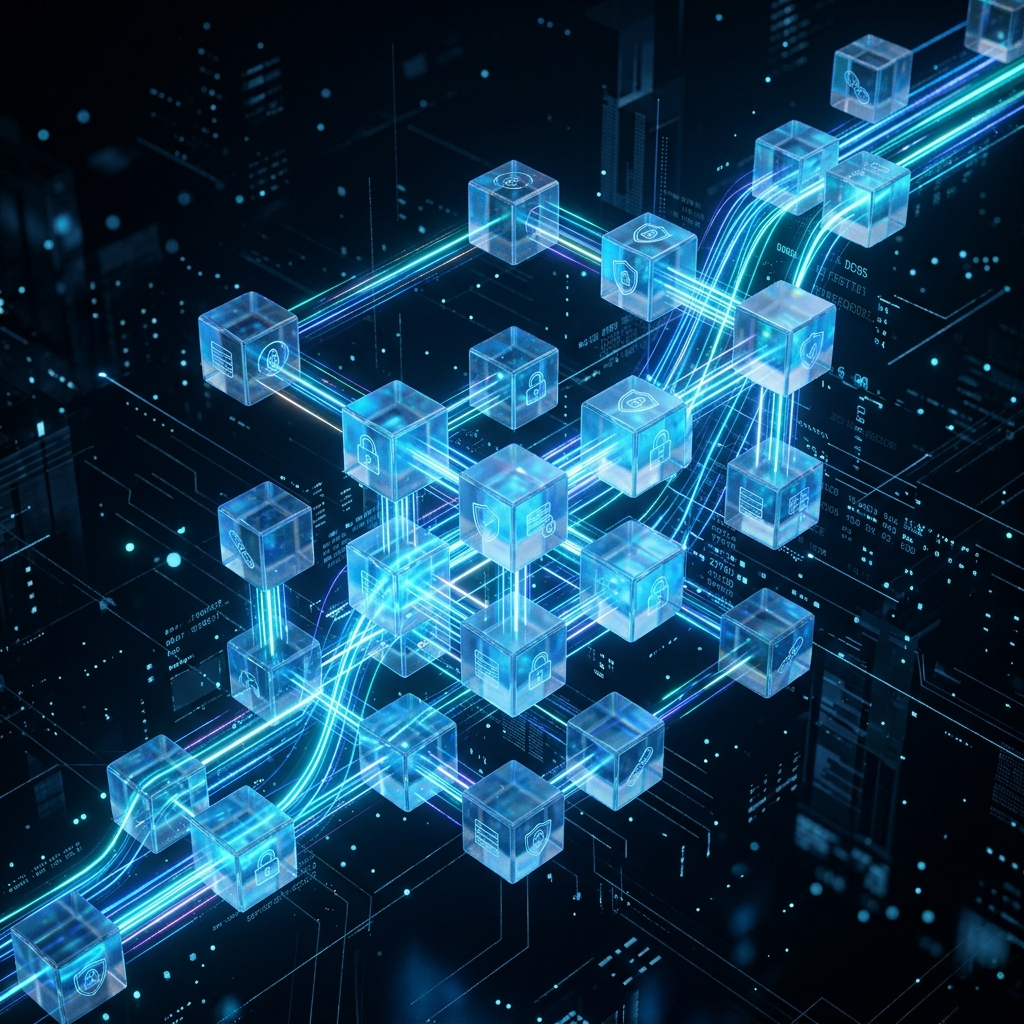
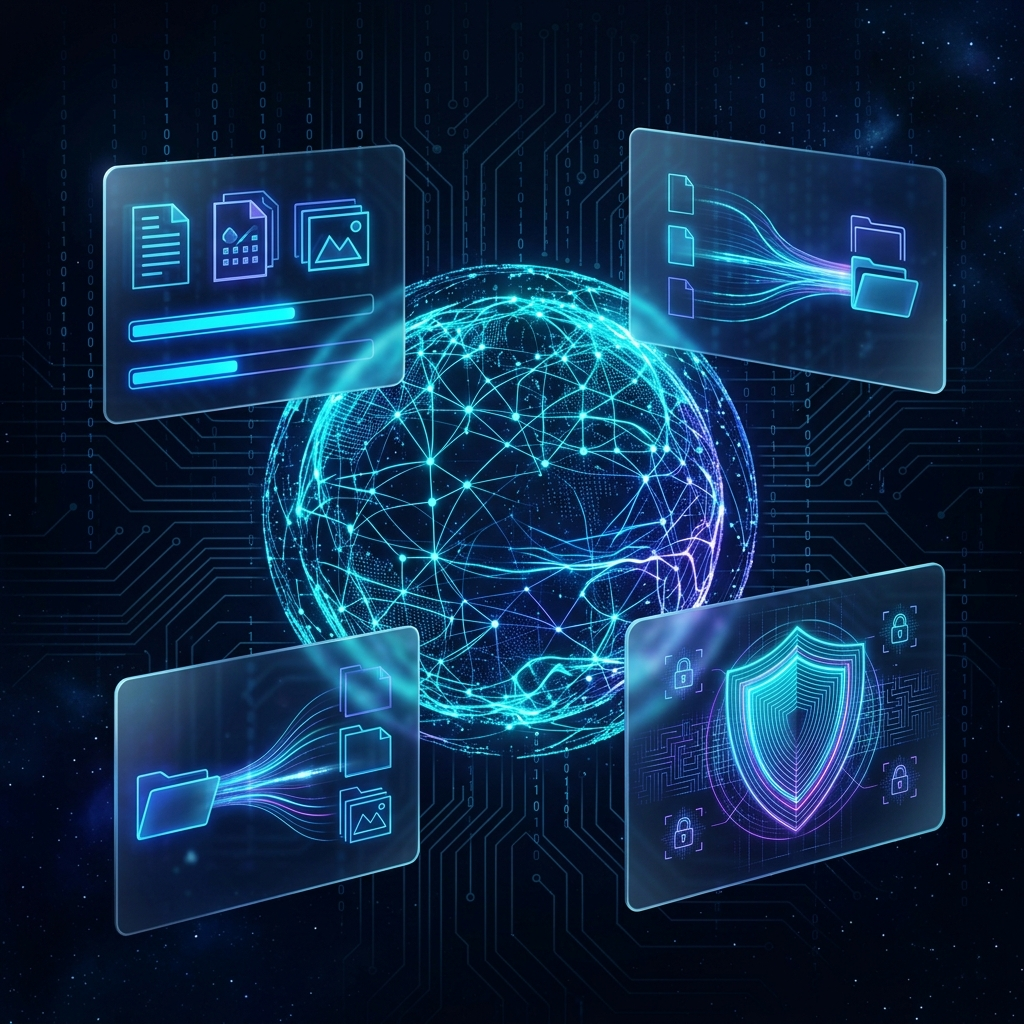
Kodi i verifikimi per ndryshim fjalekalimi

diff --git a/server.js b/server.js
@@ -61,6 +61,19 @@ db.serialize(() => {
             FOREIGN KEY (user_id) REFERENCES users (id)
         )
     `);
+    db.run(`
+        CREATE TABLE IF NOT EXISTS password_reset_codes (
+            id INTEGER PRIMARY KEY AUTOINCREMENT,
+            user_id INTEGER NOT NULL,
+            email TEXT NOT NULL,
+            code_hash TEXT NOT NULL,
+            reset_token TEXT NOT NULL UNIQUE,
+            expires_at DATETIME NOT NULL,
+            attempts INTEGER DEFAULT 0,
+            created_at DATETIME DEFAULT CURRENT_TIMESTAMP,
+            FOREIGN KEY (user_id) REFERENCES users (id)
+        )
+    `);
 });
 
 
@@ -144,6 +157,28 @@ function sendLoginVerificationEmail(email, code) {
     });
 }
 
+function sendPasswordResetEmail(email, code) {
+    if (!mailTransport) {
+        throw new Error('Nodemailer is not configured.');
+    }
+
+    return mailTransport.sendMail({
+        from: SMTP_FROM,
+        to: email,
+        subject: 'Kodi i verifikimit per ndryshimin e fjalekalimit ne Vantalyra',
+        text: `Kodi juaj i verifikimit per ndryshimin e fjalekalimit eshte: ${code}. Ky kod skadon per ${VERIFICATION_CODE_TTL_MINUTES} minuta.`,
+        html: `
+            <div style="font-family: Arial, sans-serif; color: #111827;">
+                <h2>Kodi i ndryshimit te fjalekalimit</h2>
+                <p>Per te ndryshuar fjalekalimin ne llogarine tuaj ne Vantalyra, perdorni kodin me poshte:</p>
+                <p style="font-size: 32px; font-weight: bold; letter-spacing: 6px;">${code}</p>
+                <p>Ky kod skadon per ${VERIFICATION_CODE_TTL_MINUTES} minuta.</p>
+                <p>Nese nuk e keni kerkuar ju kete ndryshim, injorojeni kete email.</p>
+            </div>
+        `
+    });
+}
+
 
 app.post('/api/register', async (req, res) => {
     const { full_name, email, password } = req.body;
@@ -173,11 +208,69 @@ app.post('/api/register', async (req, res) => {
 });
 
 
-app.post('/api/reset-password', async (req, res) => {
-    const { email, newPassword } = req.body;
+app.post('/api/request-reset-password', (req, res) => {
+    const { email } = req.body;
 
-    if (!email || !newPassword) {
-        return res.status(400).json({ error: 'Ju lutem mbushni te gjitha fushat.' });
+    if (!email) {
+        return res.status(400).json({ error: 'Ju lutem shkruani email-in.' });
+    }
+
+    db.get('SELECT * FROM users WHERE email = ?', [email], async (err, user) => {
+        if (err) return res.status(500).json({ error: 'Gabim sistemi.' });
+        if (!user) return res.status(404).json({ error: 'Nuk ekziston llogari me kete email.' });
+
+        if (!mailTransport) {
+            return res.status(500).json({
+                error: 'Nodemailer nuk eshte i konfiguruar ende ne server. Vendos EMAIL_SERVICE ose SMTP_HOST bashke me SMTP_USER, SMTP_PASS dhe SMTP_FROM ne .env.'
+            });
+        }
+
+        const code = createVerificationCode();
+        const resetToken = createVerificationToken();
+        const expiresAt = new Date(Date.now() + VERIFICATION_CODE_TTL_MINUTES * 60 * 1000).toISOString();
+
+        try {
+            const codeHash = await bcrypt.hash(code, 10);
+
+            db.serialize(() => {
+                db.run('DELETE FROM password_reset_codes WHERE email = ?', [email]);
+                db.run(
+                    `INSERT INTO password_reset_codes
+                    (user_id, email, code_hash, reset_token, expires_at)
+                    VALUES (?, ?, ?, ?, ?)`,
+                    [user.id, user.email, codeHash, resetToken, expiresAt],
+                    async (insertErr) => {
+                        if (insertErr) {
+                            return res.status(500).json({ error: 'Gabim gjate krijimit te kodit te verifikimit.' });
+                        }
+
+                        try {
+                            await sendPasswordResetEmail(user.email, code);
+                            res.json({
+                                resetToken,
+                                email: user.email,
+                                message: 'Kodi i verifikimit u dergua ne email.'
+                            });
+                        } catch (emailError) {
+                            db.run('DELETE FROM password_reset_codes WHERE reset_token = ?', [resetToken]);
+                            console.error('Email delivery error:', emailError.message);
+                            console.log(`[DEV ONLY] Kodi i verifikimit per ${user.email} eshte: ${code}`);
+                            res.status(500).json({ error: 'Kodi nuk mund te dergohet ne email per momentin.' });
+                        }
+                    }
+                );
+            });
+        } catch (verificationError) {
+            res.status(500).json({ error: 'Gabim sistemi.' });
+        }
+    });
+});
+
+app.post('/api/reset-password', async (req, res) => {
+    const { email, code, resetToken, newPassword } = req.body;
+
+    if (!email || !code || !resetToken || !newPassword) {
+        return res.status(400).json({ error: 'Ju lutem plotesoni te gjitha fushat.' });
     }
 
     if (newPassword.length < 6) {
@@ -185,24 +278,42 @@ app.post('/api/reset-password', async (req, res) => {
     }
 
     try {
-        db.get('SELECT id FROM users WHERE email = ?', [email], async (err, user) => {
-            if (err) return res.status(500).json({ error: 'Gabim sistemi.' });
-            if (!user) return res.status(404).json({ error: 'Nuk ekziston llogari me kete email.' });
+        db.get(
+            `SELECT prc.*, u.id as user_uid
+             FROM password_reset_codes prc
+             JOIN users u ON u.id = prc.user_id
+             WHERE prc.email = ? AND prc.reset_token = ?`,
+            [email, resetToken],
+            async (err, record) => {
+                if (err) return res.status(500).json({ error: 'Gabim sistemi.' });
+                if (!record) return res.status(400).json({ error: 'Seanca e verifikimit nuk u gjet. Provo te kerkosh nje kod te ri.' });
 
-            const hashedPassword = await bcrypt.hash(newPassword, 10);
-
-            db.run(
-                'UPDATE users SET password_hash = ? WHERE email = ?',
-                [hashedPassword, email],
-                function(updateErr) {
-                    if (updateErr) {
-                        return res.status(500).json({ error: 'Gabim gjate ndryshimit te fjalekalimit.' });
-                    }
-
-                    res.json({ message: 'Fjalekalimi u ndryshua me sukses.' });
+                if (new Date(record.expires_at).getTime() < Date.now()) {
+                    db.run('DELETE FROM password_reset_codes WHERE id = ?', [record.id]);
+                    return res.status(400).json({ error: 'Kodi i verifikimit ka skaduar. Kerkoni nje kod te ri.' });
                 }
-            );
-        });
+
+                if (record.attempts >= VERIFICATION_CODE_MAX_ATTEMPTS) {
+                    db.run('DELETE FROM password_reset_codes WHERE id = ?', [record.id]);
+                    return res.status(429).json({ error: 'Keni tejkaluar tentativat e lejuara. Kerkoni nje kod te ri.' });
+                }
+
+                const validCode = await bcrypt.compare(code, record.code_hash);
+
+                if (!validCode) {
+                    db.run('UPDATE password_reset_codes SET attempts = attempts + 1 WHERE id = ?', [record.id]);
+                    return res.status(400).json({ error: 'Kodi i verifikimit eshte i pasakte.' });
+                }
+
+                const hashedPassword = await bcrypt.hash(newPassword, 10);
+
+                db.serialize(() => {
+                    db.run('UPDATE users SET password_hash = ? WHERE id = ?', [hashedPassword, record.user_uid]);
+                    db.run('DELETE FROM password_reset_codes WHERE email = ?', [email]);
+                    res.json({ message: 'Fjalëkalimi u ndryshua me sukses.' });
+                });
+            }
+        );
     } catch (error) {
         res.status(500).json({ error: 'Gabim sistemi.' });
     }

diff --git a/js/auth.js b/js/auth.js
@@ -11,6 +11,8 @@ const loginHelperText = document.getElementById('login-helper-text');
 
 let pendingVerificationToken = null;
 let pendingVerificationEmail = null;
+let pendingResetToken = null;
+let pendingResetEmail = null;
 
 function showMessage(msg, isError = false) {
     if (!authMessage) return;
@@ -120,30 +122,72 @@ if (loginForm) {
 if (resetForm) {
     resetForm.addEventListener('submit', async (e) => {
         e.preventDefault();
-        const email = document.getElementById('email').value;
-        const newPassword = document.getElementById('new-password').value;
+        const emailInput = document.getElementById('email');
+        const resetCodeInput = document.getElementById('reset-code');
+        const newPasswordInput = document.getElementById('new-password');
+        const resetCodeGroup = document.getElementById('reset-code-group');
+        const newPasswordGroup = document.getElementById('new-password-group');
+        const resetBtn = document.getElementById('reset-button');
 
-        if (newPassword.length < 6) {
-            showMessage('Fjalekalimi i ri duhet te kete te pakten 6 karaktere.', true);
-            return;
-        }
+        const email = emailInput.value.trim();
 
-        try {
-            const response = await fetch(`${API_URL}/reset-password`, {
-                method: 'POST',
-                headers: { 'Content-Type': 'application/json' },
-                body: JSON.stringify({ email, newPassword })
-            });
-            const data = await response.json();
+        if (!pendingResetToken) {
+            try {
+                const response = await fetch(`${API_URL}/request-reset-password`, {
+                    method: 'POST',
+                    headers: { 'Content-Type': 'application/json' },
+                    body: JSON.stringify({ email })
+                });
+                const data = await response.json();
 
-            if (response.ok) {
-                showMessage(data.message, false);
-                setTimeout(() => window.location.href = 'login.html', 2000);
-            } else {
-                showMessage(data.error, true);
+                if (response.ok) {
+                    pendingResetToken = data.resetToken;
+                    pendingResetEmail = data.email;
+                    emailInput.disabled = true;
+                    if (resetCodeGroup) resetCodeGroup.style.display = 'block';
+                    if (newPasswordGroup) newPasswordGroup.style.display = 'block';
+                    if (resetCodeInput) resetCodeInput.required = true;
+                    if (newPasswordInput) newPasswordInput.required = true;
+                    if (resetBtn) resetBtn.textContent = 'Ndrysho Fjalëkalimin';
+                    if (resetCodeInput) resetCodeInput.focus();
+                    showMessage(data.message, false);
+                } else {
+                    showMessage(data.error, true);
+                }
+            } catch (error) {
+                showMessage('Ndodhi një gabim gjatë procesit.', true);
             }
-        } catch (error) {
-            showMessage('Ndodhi një gabim gjatë procesit.', true);
+        } else {
+            const code = resetCodeInput.value.trim();
+            const newPassword = newPasswordInput.value;
+
+            if (newPassword.length < 6) {
+                showMessage('Fjalëkalimi i ri duhet të ketë të paktën 6 karaktere.', true);
+                return;
+            }
+
+            try {
+                const response = await fetch(`${API_URL}/reset-password`, {
+                    method: 'POST',
+                    headers: { 'Content-Type': 'application/json' },
+                    body: JSON.stringify({
+                        email: pendingResetEmail,
+                        code,
+                        resetToken: pendingResetToken,
+                        newPassword
+                    })
+                });
+                const data = await response.json();
+
+                if (response.ok) {
+                    showMessage(data.message, false);
+                    setTimeout(() => window.location.href = 'login.html', 2000);
+                } else {
+                    showMessage(data.error, true);
+                }
+            } catch (error) {
+                showMessage('Ndodhi një gabim gjatë procesit.', true);
+            }
         }
     });
 }

diff --git a/forgot-password.html b/forgot-password.html
@@ -141,18 +141,25 @@
       <div class="auth-card">
         <h2>Rikthe Fjalëkalimin</h2>
         <div id="auth-message"></div>
+
         <form id="reset-form">
-          <div class="form-group">
+          <div class="form-group" id="email-group">
             <label for="email">Emaili i Llogarisë</label>
             <input type="email" id="email" name="email" required placeholder="Shkruani email-in tuaj">
           </div>
-          <div class="form-group">
+          <div class="form-group" id="reset-code-group" style="display: none;">
+            <label for="reset-code">Kodi i Verifikimit</label>
+            <input type="text" id="reset-code" name="reset-code" inputmode="numeric" maxlength="6"
+              placeholder="Shkruani kodin 6-shifror">
+          </div>
+          <div class="form-group" id="new-password-group" style="display: none;">
             <label for="new-password">Fjalëkalimi i Ri</label>
-            <input type="password" id="new-password" name="new-password" required
+            <input type="password" id="new-password" name="new-password"
               placeholder="Shkruani fjalëkalimin e ri">
           </div>
-          <button type="submit" class="auth-button">Ndrysho Fjalëkalimin</button>
+          <button type="submit" class="auth-button" id="reset-button">Dërgo Kodin e Verifikimit</button>
         </form>
+
         <div class="auth-links">
           <p>Kujtuat fjalëkalimin? <a href="login.html">Kthehu te Kyçja</a></p>
         </div>

diff --git a/dashboard.html b/dashboard.html
@@ -95,9 +95,19 @@
               </div>
             </div>
           </div>
-          <div class="topbar-user" id="topbar-user">
+          <div class="topbar-user" id="topbar-user" style="position: relative;">
             <div class="topbar-avatar" id="topbar-avatar"></div>
             <span class="topbar-name" id="topbar-name"></span>
+            <div class="user-dropdown-content" id="topbar-user-dropdown">
+              <a href="#" class="dropdown-item" id="topbar-profile-link">
+                <svg width="18" height="18" viewBox="0 0 24 24" fill="none" stroke="currentColor" stroke-width="2" stroke-linecap="round" stroke-linejoin="round"><path d="M20 21v-2a4 4 0 0 0-4-4H8a4 4 0 0 0-4 4v2"></path><circle cx="12" cy="7" r="4"></circle></svg>
+                Profili
+              </a>
+              <a href="#" class="dropdown-item logout-action" id="topbar-logout-link">
+                <svg width="18" height="18" viewBox="0 0 24 24" fill="none" stroke="currentColor" stroke-width="2" stroke-linecap="round" stroke-linejoin="round"><path d="M9 21H5a2 2 0 0 1-2-2V5a2 2 0 0 1 2-2h4"></path><polyline points="16 17 21 12 16 7"></polyline><line x1="21" y1="12" x2="9" y2="12"></line></svg>
+                Dil nga llogaria
+              </a>
+            </div>
           </div>
         </div>
       </header>

diff --git a/js/script.js b/js/script.js
@@ -69,8 +69,30 @@ const Dashboard = (() => {
       logout();
     });
 
-    $('#topbar-user')?.addEventListener('click', () => {
-      window.location.href = 'index.html';
+    const userDropdown = $('#topbar-user-dropdown');
+    $('#topbar-user')?.addEventListener('click', (e) => {
+      e.stopPropagation();
+      userDropdown?.classList.toggle('show');
+    });
+
+    $('#topbar-profile-link')?.addEventListener('click', (e) => {
+      e.preventDefault();
+      e.stopPropagation();
+      switchSection('overview');
+      userDropdown?.classList.remove('show');
+    });
+
+    $('#topbar-logout-link')?.addEventListener('click', (e) => {
+      e.preventDefault();
+      e.stopPropagation();
+      logout();
+    });
+
+    document.addEventListener('click', (e) => {
+      const topbarUser = $('#topbar-user');
+      if (topbarUser && !topbarUser.contains(e.target)) {
+        userDropdown?.classList.remove('show');
+      }
     });
   }
 

diff --git a/css/style.css b/css/style.css
@@ -1177,7 +1177,8 @@ body {
   z-index: 1000;
 }
 
-.user-profile-container:hover .user-dropdown-content {
+.user-profile-container:hover .user-dropdown-content,
+.user-dropdown-content.show {
   opacity: 1;
   visibility: visible;
   transform: translateY(0);
